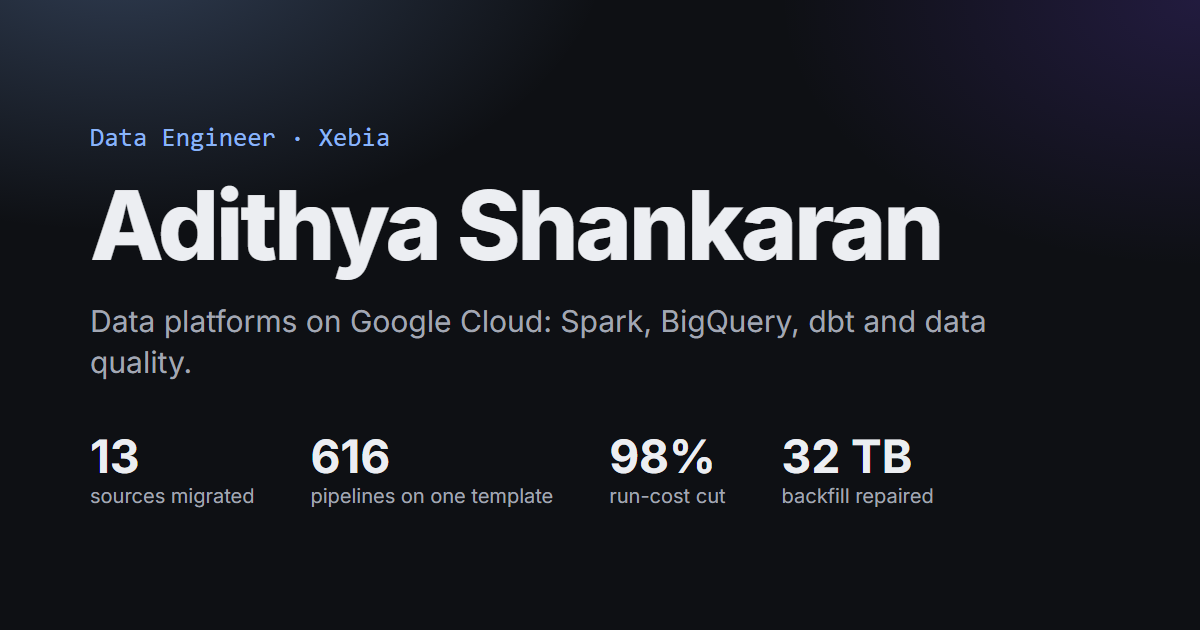
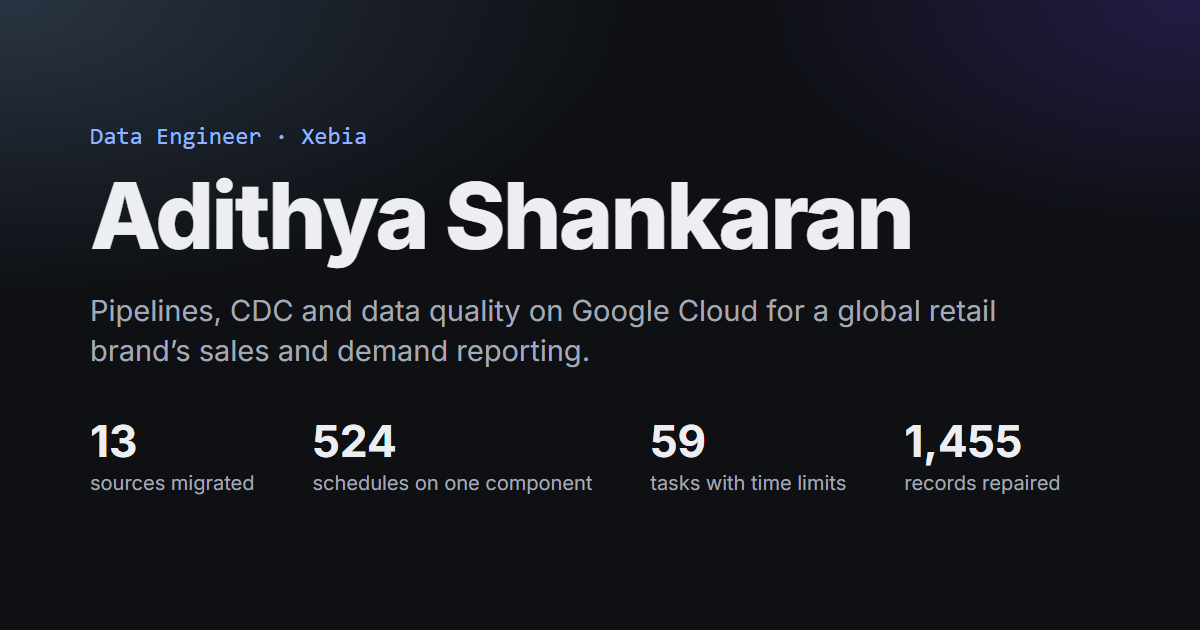
Resume-aligned content

diff --git a/src/content.ts b/src/content.ts
@@ -2,17 +2,17 @@ export const profile = {
   name: 'Adithya Shankaran',
   role: 'Data Engineer',
   company: 'Xebia',
-  location: 'Surat, Gujarat',
+  location: 'Gurugram, Haryana',
   email: 'adikshan11@gmail.com',
   headline: ['Building the ', 'data foundations', ' that ', 'analytics and AI', ' run on.'],
   intro: [
-    'Data engineer at **Xebia**, working on client engagements with **Spark**, **BigQuery**, **dbt** and **Vertex AI**, and the quality checks that keep the numbers honest.',
-    'Recently: per-task **timeouts** with alerts across a shared pipeline framework, a **98%** run-cost cut on a top-cost Spark pipeline, and **1,455 missing records** repaired in a **32 TB** backfill.',
+    'Data engineer at **Xebia**, working directly with a global apparel retail brand’s product owners and **BI analysts** on the pipelines, **CDC**, data models and **data quality** checks on Google Cloud behind their sales and demand reporting, plus **RAG** and **LangGraph** AI agents.',
+    'Recently: one reusable **Dataproc** component for **524 production schedules**, per-task **timeouts** with alerts on **59 tasks**, and **1,455 missing records** repaired across **6 months** of events.',
     'Away from pipelines I play the [piano], cheer for Real Madrid, and lose more hours to Minecraft than I should.',
   ],
   status: [
-    { label: 'Live', text: 'One reusable Dataproc template for 600+ scheduled pipelines' },
-    { label: 'Next', text: 'Passed Xebia’s Forward Deployed Engineer level 1 on GCP, October 2026' },
+    { label: 'Live', text: 'One reusable Dataproc component for 524 production schedules, with time limits on 600+ DAGs' },
+    { label: 'Certified', text: 'Xebia Forward Deployed Engineer, FDE-1 Level 2 on GCP, October 2026' },
   ],
   socials: [
     { label: 'Email', handle: 'adikshan11@gmail.com', href: 'mailto:adikshan11@gmail.com', icon: 'mail' },
@@ -47,11 +47,12 @@ export const experience = {
       start: '2026-07',
       stack: ['Dataproc', 'Vertex AI', 'BigQuery', 'DBT', 'Dataplex'],
       points: [
-        { topic: 'Reliability', text: 'shipped per-task timeouts with named alerts in the shared Vertex AI framework, rolled out to the e-commerce pipelines.' },
-        { topic: 'Platform engineering', text: 'building one reusable Dataproc template for 600+ scheduled pipelines, with a hard time limit and success read from the job’s own final state.' },
-        { topic: 'Cost optimization', text: 'cut a top-cost Spark pipeline’s run cost by 98% ($51 to $0.91 per run); moved 29 pipelines to right-sized clusters.' },
-        { topic: 'Source migration', text: 'validated 7 Hybris commerce pipelines against the new SQL Server Hyperscale source before cut-over.' },
-        { topic: 'Data correctness', text: 'repaired 1,455 missing records in a 32 TB dbt backfill and cleared platform health-check violations.' },
+        { topic: 'Platform engineering', text: 'unified duplicated Dataproc pipeline templates into one reusable framework component powering 524 production schedules with zero output regressions, plus time limits on 600+ DAGs that expose silent 4-hour failures.' },
+        { topic: 'Reliability', text: 'designed per-task time limits in the shared Vertex AI pipeline framework, sized from measured production run times, with alerts naming the failed task; enforced on 59 tasks across 25 e-commerce pipelines.' },
+        { topic: 'Data correctness', text: 'restored a missing campaign attribute for the site marketing team’s twice-weekly reporting with a chained dbt backfill across 6 months of events, reconciling 4,200 hourly windows and repairing 1,455 missing records.' },
+        { topic: 'Cost optimization', text: 'ended repeated 4-hour timeouts on a high-cost Hybris Spark pipeline (0 of 9 runs finished before, 11 of 16 after) and cut its daily cost 19.7%; right-sized clusters for 29 pipelines (17.6% lower cost).' },
+        { topic: 'Source migration', text: 'led preprod validation of 7 Hybris pipelines on the new SQL Server Hyperscale source; all 7 matched.' },
+        { topic: 'Engineering practice', text: 'triaged production incidents, reviewed 102 pull requests across 7 repositories and wrote 7 design and analysis docs.' },
       ],
     },
     {
@@ -61,10 +62,10 @@ export const experience = {
       end: '2026-06',
       stack: ['Apache Spark', 'Dataproc', 'BigQuery', 'Datastream', 'Dataplex', 'LLMs', 'RAG'],
       points: [
-        { topic: 'Cloud migration', text: 'moved 13 e-commerce sources (OMS, Hybris, Shopify, Salsify, Cordial, Zendesk and more) from Databricks to Spark on Dataproc and BigQuery, each validated against the legacy output.' },
-        { topic: 'Change data capture', text: 'designed Datastream CDC for 72 OMS order tables into BigQuery, with snapshot and change-processing views as the single source of truth for order reporting, to replace Qlik.' },
-        { topic: 'Data quality', text: 'Dataplex DQ scans for an order-cancellation data product and a product inventory feed, plus a CI gate that blocks any dbt model without a registered scan.' },
-        { topic: 'Generative AI', text: 'at the Centre of Excellence, RAG document extraction on Weaviate and ChromaDB and a Terraform linter on Claude via AWS Bedrock; passed Forward Deployed Engineer level 1 on GCP.' },
+        { topic: 'Cloud migration', text: 'led the migration of 13 e-commerce data sources (OMS, Hybris, Shopify, Salsify, Cordial, Zendesk and more) from Databricks to Dataproc and BigQuery, each validated.' },
+        { topic: 'Change data capture', text: 'designed CDC for the OMS order tables with Datastream, with BigQuery snapshot and change views as the single source of truth for order reporting, to replace Qlik.' },
+        { topic: 'Data quality', text: 'built Dataplex data-quality scans for 2 data products with thresholds tested on years of production data, and a CI gate that blocks dbt models without a scan.' },
+        { topic: 'Generative AI', text: 'at the Centre of Excellence, RAG extraction with LlamaIndex chunking into Weaviate and ChromaDB, and a Claude (AWS Bedrock) Terraform linter for all 6 Well-Architected pillars.' },
       ],
     },
   ] satisfies Role[],
@@ -85,9 +86,9 @@ export function tenure(start: string, end?: string, today = new Date()) {
 
 export const metrics = [
   { value: '13', label: 'e-commerce sources migrated to Spark on Google Cloud' },
-  { value: '600+', label: 'scheduled pipelines moving to one reusable template' },
-  { value: '98%', label: 'run-cost cut on a top-cost Spark pipeline' },
-  { value: '1,455', label: 'missing records found and repaired in a 32 TB backfill' },
+  { value: '524', label: 'production schedules on one reusable Dataproc component' },
+  { value: '59', label: 'pipeline tasks with per-task time limits and named alerts' },
+  { value: '1,455', label: 'missing records repaired across 6 months of events' },
 ];
 
 export const principles = [
@@ -99,7 +100,7 @@ export const principles = [
   {
     kind: 'Cost',
     title: 'Cost is a design input',
-    text: 'Pruned joins and partitions on a top-cost Spark pipeline: **98% cheaper** per run and no more 4-hour timeouts. Clusters are sized from measured runs, not defaults.',
+    text: 'Pruned joins and scans on a high-cost Spark pipeline: no more 4-hour timeouts (0 of 9 runs finished before, 11 of 16 after) and **19.7%** lower daily cost. Clusters for 29 pipelines are sized from measured runs, not defaults.',
   },
   {
     kind: 'Data quality',
@@ -112,14 +113,14 @@ export const principles = [
     text: 'Order-data **CDC** with Datastream into BigQuery, with snapshot and change views, replacing third-party replication.',
   },
   {
-    kind: 'Security',
-    title: 'Sensitive data stays fenced',
-    text: '**PII** in its own lake zone, credentials from **Secret Manager** at run time, encrypted outbound data, and **read-only**, cost-capped database access for coding agents.',
+    kind: 'AI',
+    title: 'Rules decide, AI explains',
+    text: 'In **imaarat.ai** a deterministic rule engine makes every decision; **LangGraph** agents read forms and explain the result, and a reviewer signs off.',
   },
   {
     kind: 'Operations',
     title: 'Health checks stay green',
-    text: 'Cleared health-check violations at the cause: renamed tables to the standard, and removed orphans only after **lineage**, **audit logs** and code search showed no readers.',
+    text: 'Fixed platform **health-check** failures at the cause: renamed data mart tables to the naming standard and added table and dependent-table descriptions for the data products.',
   },
 ];
 
@@ -149,7 +150,7 @@ export const projects: Project[] = [
   {
     name: 'NYC Taxi Lakehouse',
     summary:
-      'Medallion lakehouse on Delta Lake: bronze ingests 9.5M trips, silver quarantines 3.9% bad records through 6 business rules, a 7-check quality gate blocks bad loads, and gold dbt marts carry 63 tests.',
+      'Medallion lakehouse on Delta Lake: bronze ingests 9.5M trips, silver quarantines 3.9% bad records through 5 reject rules, a 7-check quality gate blocks bad loads, and gold dbt marts carry 63 tests.',
     stack: ['PySpark', 'Delta Lake', 'DBT', 'DuckDB', 'Airflow'],
     links: [{ label: 'Code', href: 'https://github.com/adikshan11/lakehouse-dq-agent' }],
     image: { src: '/projects/lakehouse-lineage.svg', alt: 'Lineage from TLC parquet through bronze, silver and quarantine Delta tables, a quality gate and a DQ agent to dbt marts' },
@@ -157,7 +158,7 @@ export const projects: Project[] = [
   {
     name: 'IaC Linter',
     summary:
-      'Checks Terraform for security issues and AWS Well-Architected gaps with Claude on AWS Bedrock, then applies fixes with backups.',
+      'Checks Terraform against all 6 AWS Well-Architected pillars, including security, with Claude on AWS Bedrock, then applies fixes with backups.',
     stack: ['Python', 'AWS Bedrock', 'Terraform'],
     links: [{ label: 'Code', href: 'https://github.com/XI4684-AdithyaShankaran/Iac-Linter' }],
   },

diff --git a/index.html b/index.html
@@ -9,7 +9,7 @@
     <link rel="canonical" href="https://adithyashankaran.vercel.app/">
     <meta property="og:type" content="website">
     <meta property="og:title" content="Adithya Shankaran · Data Engineer">
-    <meta property="og:description" content="Data platforms on Google Cloud: Spark ingestion, BigQuery, dbt and data quality.">
+    <meta property="og:description" content="Data engineer at Xebia building pipelines, CDC, data models and data quality on Google Cloud for a global retail brand's sales and demand reporting.">
     <meta property="og:url" content="https://adithyashankaran.vercel.app/">
     <meta property="og:image" content="https://adithyashankaran.vercel.app/og.png">
     <meta name="twitter:card" content="summary_large_image">

diff --git a/src/components/StatusBoard.tsx b/src/components/StatusBoard.tsx
@@ -39,7 +39,7 @@ export default function StatusBoard() {
             {track.playing ? 'Listening' : 'Last played'}
           </dt>
           <dd className="mt-1">
-            <a href={track.url} target="_blank" rel="noreferrer" className="flex min-w-0 items-center gap-3 hover:underline">
+            <a href={track.url} target="_blank" rel="noopener noreferrer" className="flex min-w-0 items-center gap-3 hover:underline">
               {track.image && <img src={track.image} alt="" width={32} height={32} className="size-8 rounded" />}
               <span className="min-w-0 truncate">
                 <span className="font-medium">{track.title}</span>

diff --git a/src/components/Projects.tsx b/src/components/Projects.tsx
@@ -24,7 +24,7 @@ export default function Projects() {
               </ul>
               <div className="flex gap-4 text-sm font-semibold">
                 {project.links.map((link) => (
-                  <a key={link.href} href={link.href} className="text-accent hover:underline" target="_blank" rel="noreferrer">
+                  <a key={link.href} href={link.href} className="text-accent hover:underline" target="_blank" rel="noopener noreferrer">
                     {link.label} →
                   </a>
                 ))}

diff --git a/src/components/SocialLinks.tsx b/src/components/SocialLinks.tsx
@@ -15,7 +15,7 @@ export default function SocialLinks() {
               href={social.href}
               aria-label={social.label}
               target={external ? '_blank' : undefined}
-              rel={external ? 'noreferrer' : undefined}
+              rel={external ? 'noopener noreferrer' : undefined}
               className="glass grid size-11 place-items-center rounded-full text-muted transition hover:-translate-y-0.5 hover:text-accent"
             >
               <Icon className="size-[18px]" />

diff --git a/src/App.tsx b/src/App.tsx
@@ -58,7 +58,7 @@ export default function App() {
                 <a
                   href={social.href}
                   target={social.href.startsWith('http') ? '_blank' : undefined}
-                  rel={social.href.startsWith('http') ? 'noreferrer' : undefined}
+                  rel={social.href.startsWith('http') ? 'noopener noreferrer' : undefined}
                   className="text-accent hover:underline"
                 >
                   {social.handle}

diff --git a/src/styles.css b/src/styles.css
@@ -131,6 +131,7 @@
 
   .refract .glass[data-lens] {
     background: color-mix(in srgb, var(--color-paper) 55%, transparent);
+    -webkit-backdrop-filter: url(#liquid-glass) blur(5px) saturate(170%);
     backdrop-filter: url(#liquid-glass) blur(5px) saturate(170%);
   }
 
